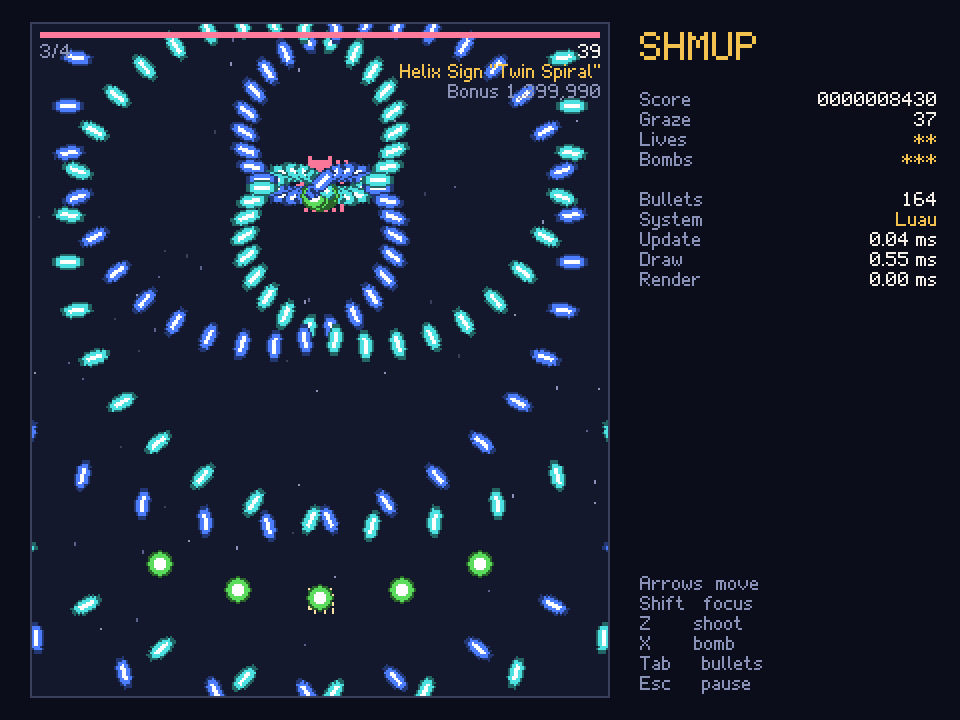
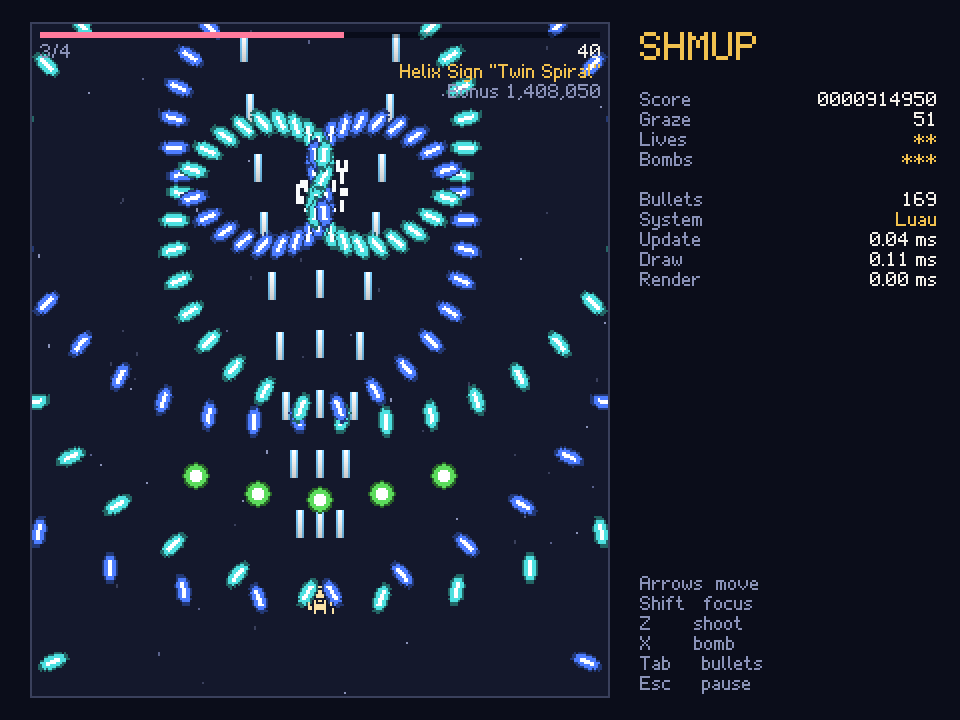
Add the shmup's results, and finish the shmup milestone
The last phase of the shmup milestone: the README now says how many
bullets each version fits in a 60th of a second and where the time
goes. In a release build, rendering every frame, on a Ryzen 7 5800X
with an RTX 3080, bullets in Luau reach about 105,000 and bullets in
Rust about 360,000, 3.4 times as many, over three runs each.

Per bullet, Luau takes 171 ns and Rust 54: moving it 53 against 16,
checking it against the player 9 against 4.5, recording its quad 99
against 23, and uploading it and waiting for the GPU about 10 in both.
Luau loses most in drawing, where each bullet is a call into the
engine. Cosine and sine take 9 of Rust's 16 ns of moving. Rendering is
a fifth of Rust's frame, so it isn't the limit and sprites aren't
instanced, as the milestone planned.

The stress test prints the limit it finds, for runs without a window,
and records it as the median bullet count of the frames it measured
rather than the count when it stopped. A screenshot of its plot, with
both curves, joins the README, and the shmup's screenshot is retaken
now that its stars are seeded.

AGENTS.md marks the milestone done and says how the results were
measured, to measure them again.

diff --git a/AGENTS.md b/AGENTS.md
@@ -19,13 +19,13 @@ covered:
 - Lua-driven gameplay: NPC behavior, dialogue, events/triggers
 - Music and sound effects
 
-**Current: a bullet-hell shmup that shows the engine's performance.** A Touhou-style vertical
+**Done: a bullet-hell shmup that shows the engine's performance.** A Touhou-style vertical
 shooter in `examples/shmup`, built in two versions, in order: first in pure Luau, then with its
 bullets in a native library, `danmaku` (`examples/native-danmaku`), to show native libraries at
 work and what they gain over Luau. Both versions are one game: the bullet system sits behind one
 Luau interface, implemented by `bullets.luau` and by the library, and everything else is shared.
 The Luau version is written as well as Luau allows (pooled bullets, `--!native`), so the comparison
-is fair. The milestone covers:
+is fair. Bullets in Rust fit about 3.4 times as many in a frame. The milestone covered:
 
 - Measuring before optimizing: frame stats games can show (update, draw and render times, quads,
   draw calls), a setting to turn vsync off, and a headless benchmark that renders every frame,
@@ -34,7 +34,8 @@ is fair. The milestone covers:
 - A fixed update rate, set in `conf.luau`
 - Libraries a game loads only if they're present, so one folder runs with or without `danmaku`
 - Engine speedups the measurements justify, which help both versions. Instanced rendering only if
-  the native version is limited by rendering; additive blending if time allows
+  the native version is limited by rendering, which it isn't (rendering is a fifth of its frame,
+  so sprites aren't instanced); additive blending if time allows, which it didn't
 - Bullets that move by parameters (speed, angle, acceleration, angular velocity, speed limits), so
   Rust moves them without calling Luau. The game steps them itself, so both versions step at the
   same point in the frame
@@ -43,11 +44,11 @@ is fair. The milestone covers:
   against bullet count, with a key to switch versions
 - Tests of the gameplay, and that both versions produce the same bullets from the same seed. CI
   never asserts timings
-- Results in the README: the most bullets each version fits in a 16.7 ms frame, and where the
-  time goes
+- Results in the README, under the shmup: the most bullets each version fits in a 16.7 ms frame,
+  and where the time goes
 
-Ask before starting general-purpose features the milestone doesn't need, such as physics engines,
-networking, editors or 3D pipelines.
+No milestone is current: ask what's next before starting new features, and especially
+general-purpose ones such as physics engines, networking, editors or 3D pipelines.
 
 ## Tech stack
 
@@ -163,7 +164,7 @@ networking, editors or 3D pipelines.
   them, and `bag.luau` (the menu key) equips gear and uses items. `ui.luau` holds the panels'
   shared look. `story.reached(stage)` compares quest stages, which run in the order of
   `story.STAGES`. The game's state is the global `rpg`.
-- `examples/shmup/`: the current milestone's bullet hell, written entirely in Luau, at a fixed
+- `examples/shmup/`: the second milestone's bullet hell, written entirely in Luau, at a fixed
   60 updates a second. Its enemy bullets go through one interface, documented at the top of
   `bullets.luau`, which is the Luau implementation (parallel arrays of numbers: a table per
   bullet managed little more than a third as many in the stress test) and which the `danmaku`
@@ -173,7 +174,8 @@ networking, editors or 3D pipelines.
   else may take numbers from `math.random`. Enemies, the stage and the boss's attacks are
   coroutines the game resumes each update with `dt`, so the engine's `wait` works in them
   (`enemies.resume`, `enemies.frame`). `boss.luau` holds the spell cards, `stage.luau` the waves,
-  `stress.luau` the stress test, and `hud.luau` the panel and screens. `shmup.start("boss")` is
+  `stress.luau` the stress test, which prints the limit it finds for runs without a window, and
+  `hud.luau` the panel and screens. `shmup.start("boss")` is
   boss practice, and `shmup.cheats` (`invincible`, `damage`) are for tests. The game's state is
   the global `shmup`.
 - `examples/native-danmaku/`: the shmup's bullets as a native library, `danmaku`, a `cdylib` the
@@ -199,7 +201,11 @@ networking, editors or 3D pipelines.
 - `README.md`: the project's overview, with a screenshot of each example in `docs/screenshots/`.
   They were taken headlessly at 640x360 (768x432 for `sprites`, so its 256x144 canvas scales
   without bars, and 960x720 for `shmup`, twice its canvas); retake them when an example changes
-  how it looks.
+  how it looks. The shmup's results, how many bullets fit in a frame and what each costs, come
+  from the stress test, run with the script beside them, and the per-bullet costs from fitting
+  its benchmark's CSV against the quad count; the split of the update time was measured by timing
+  `step` and `collide` with `os.clock`. Measure them again on the same machine, a Ryzen 7 5800X
+  with an RTX 3080, after changes that could move them.
 - `tests/screenshots.rs`: screenshot tests, with reference images in `tests/screenshots/`.
 - `tests/simulation.rs`: tests for `Simulation` and scripted runs.
 - `tests/runtime.rs`: tests for the Luau runtime, with small games written to temporary folders.

diff --git a/README.md b/README.md
@@ -6,7 +6,9 @@ or entirely in [Luau](https://luau.org) and run with the `wingine` executable.
 ![The village of Mossbrook, from the RPG example](docs/screenshots/rpg-village.png)
 
 Wingine's first milestone, everything needed to ship a tile-based, top-down RPG, is complete.
-The [RPG example](#rpg) is that game.
+The [RPG example](#rpg) is that game. Its second, a bullet hell that shows the engine's
+performance, is complete too: the [shmup](#shmup), whose bullets run in Luau or in a native
+library written in Rust, which [fits 3.4 times as many](#luau-and-rust-compared).
 
 ## Features
 
@@ -100,6 +102,60 @@ Then copy `target/release/danmaku.dll` (`libdanmaku.so` on Linux, `libdanmaku.dy
 into `examples/shmup/native/`, and press Tab in the game to switch between the two. The stress
 test pours out bullets until frames take longer than a 60th of a second, and plots frame time
 against the bullet count for each.
+
+#### Luau and Rust compared
+
+Bullets in Rust fit about 3.4 times as many in a frame as bullets in Luau:
+
+| Bullets in | The most a 60th of a second fits |
+|---|---|
+| Luau, `bullets.luau` | about 105,000 |
+| Rust, `danmaku` | about 360,000 |
+
+![The stress test's plot of frame time against bullets, for Luau and for Rust](docs/screenshots/shmup-stress.png)
+
+These are the stress test's limits in a release build, rendering every frame, on a Ryzen 7 5800X
+with a GeForce RTX 3080 on Windows 10. Over three runs, Luau's limit ranged from 102,700 to
+105,300 bullets and Rust's from 356,400 to 362,300. The limit is where the median of 30 frames
+spends more than 16.7 ms updating, drawing and rendering. The GPU's own work isn't counted, since
+in a window it runs while the next frame is prepared.
+
+Each bullet costs this much of a frame:
+
+| | Luau | Rust |
+|---|---:|---:|
+| Moving it | 53 ns | 16 ns |
+| Checking it against the player | 9 ns | 4.5 ns |
+| Drawing it: recording its quad | 99 ns | 23 ns |
+| Rendering it: uploading its quad and submitting the draw | 8 ns | 8 ns |
+| Waiting for the GPU | 2 ns | 3 ns |
+| **Total** | **171 ns** | **54 ns** |
+
+- **Drawing** is where Luau loses most. Each bullet it draws is a call from Luau into the engine,
+  which costs about four times what recording the sprite does. The library hands the engine all
+  its bullets in a few calls, so what's left is the engine recording quads.
+- **Moving** a bullet needs its angle's cosine and sine. Both versions take them from the same C
+  library, which keeps their bullets identical, and they take 9 of Rust's 16 ns. The rest of
+  Luau's 53 ns is Luau's own overhead around the same arithmetic.
+- **Checking** a bullet against the player is a few multiplications, so most of what it costs
+  is reading the bullet from memory.
+- **Rendering** isn't what limits either version: uploading quads and the GPU's work are a fifth
+  of Rust's time.
+
+To measure it yourself, put the library in place and run this script, which prints each limit:
+
+```text
+tap Down
+tap Down
+tap Z
+benchmark 40s
+tap Tab
+benchmark 40s
+```
+
+```bash
+WINGINE_SCRIPT=stress.txt cargo run --release -- examples/shmup
+```
 
 ### Pong
 
